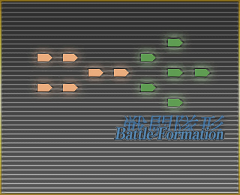
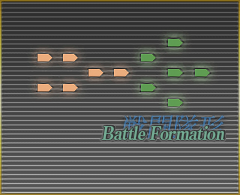
Update to v3.11.3
-== Raw Text Patching ==-
-- Updated --
- Equipment data
- Ship data

-- Added --
- "Not enough resources to repair!"

-- Fixed --
- Quest 2104LQ1 linebreak
- Northampton wrong class (BB --> CA)

-== Texture Patching ==-
-- Updated --
- General equipment assets

-- Changed --
- Improved readability on the combined fleet formations

-- Fixed --
- 12.7cm Single Gun Mount --> 12cm Single Gun Mount (battle cut-in)
- Typo on E-2 and E-5's clear message ("stationned" --> "stationed")
- Improved translation on E-3's clear message

Changed region(s): [[0.4083, 0.6154, 0.9625, 0.7385]]

diff --git a/README.md b/README.md
@@ -35,10 +35,10 @@ or that is very often seen in the game, is translated. It is still a WIP, so any
 
 To Tibo for implementing new ways to patch the game's textures with KCCacheProxy,\
 as well as for making some code specially to patch raw text in a stable way.\
-To Dark Sentinel for contributing (LBAS menu aircraft names, world icons, server banners).\
+To Dark Sentinel for contributing (LBAS menu aircraft names, world icons, server banners, and more).\
 To Amelek for the chuuha/taiha cut-in texture jigsaw splitter.\
 To Globalnet for the quick updater.\
-To the EN wiki staff and the kc3 staff for providing a good part of the translations.\
+To the EN wiki staff and the kc3 staff for providing a good part of the translations.
 
 To atikabubu, Althea, Dotsidious, TerminaHeart, LeftistTachyon\
 and all the others in the Discord server for regularly suggesting\
